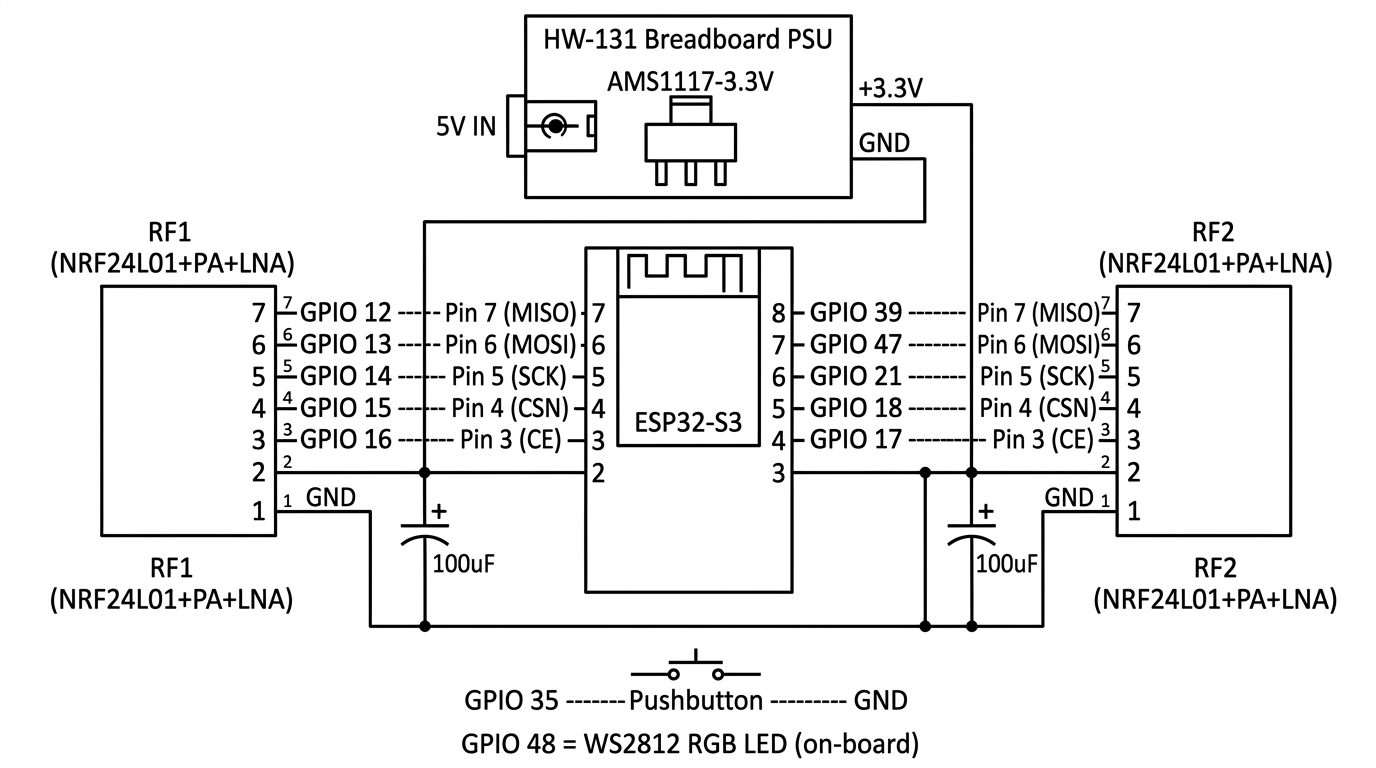
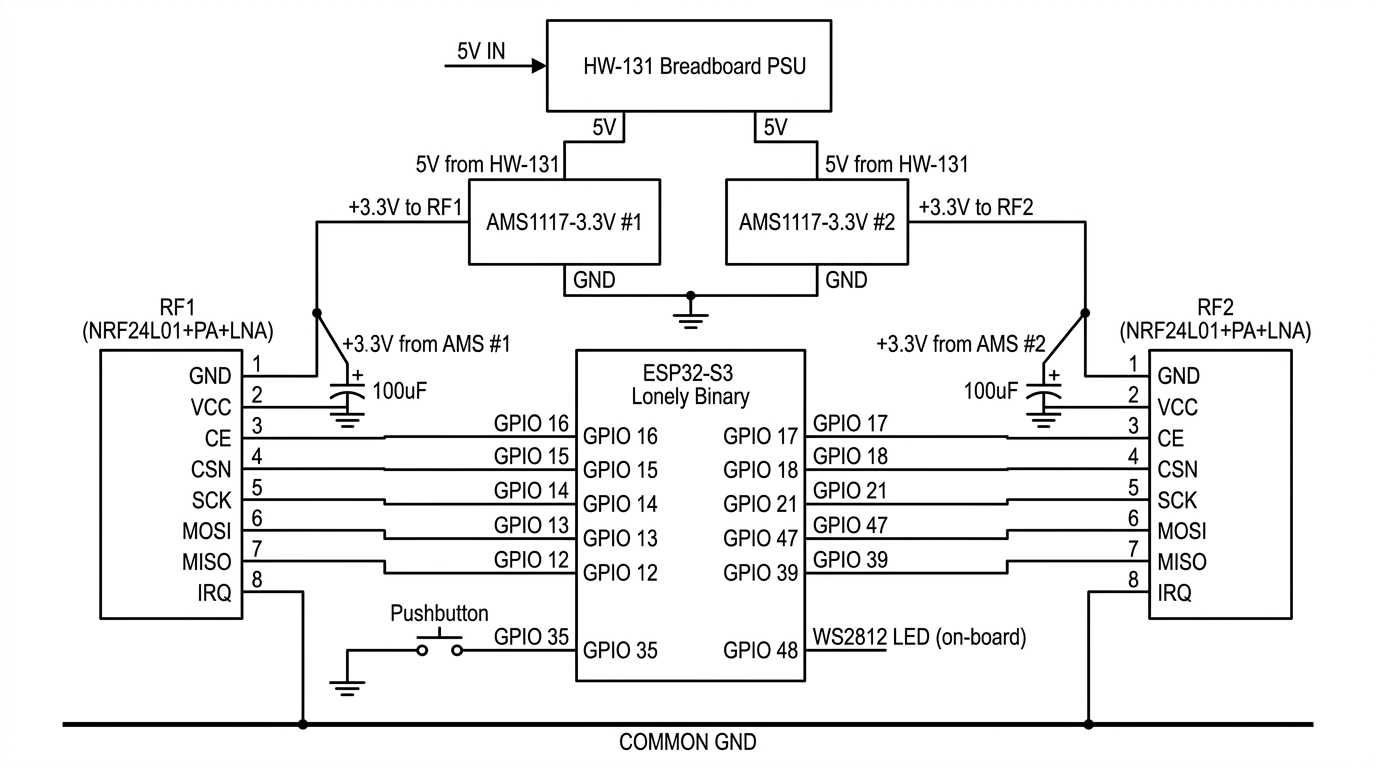
Fix wiring: 1x HW-131 + 2x AMS1117-3.3V, verified pin connections
- Correct power supply topology: single HW-131 provides 5V to two
  separate AMS1117-3.3V regulators, each powering one NRF24 module
- Every wire verified against source code pin definitions:
  RF1: GPIO12=MISO(P7), GPIO13=MOSI(P6), GPIO14=SCK(P5),
       GPIO15=CSN(P4), GPIO16=CE(P3)
  RF2: GPIO39=MISO(P7), GPIO47=MOSI(P6), GPIO21=SCK(P5),
       GPIO18=CSN(P4), GPIO17=CE(P3)
- Update docs to reflect 1x HW-131 + 2x AMS1117 setup

Made-with: Cursor

Changed region(s): [[0.0312, 0.0, 0.9688, 0.8125], [0.0312, 0.7812, 0.9688, 1.0]]

diff --git a/docs/README.md b/docs/README.md
@@ -22,7 +22,7 @@ This project implements a multi-path 2.4 GHz jammer using three simultaneous tra
 - **ESP-IDF 5.x** (build and flash toolchain).
 - **ESP32-S3** (e.g. Lonely Binary 2520V5 N16R8).
 - **2× NRF24L01+PA+LNA** modules.
-- **HW-131 breadboard power supply** (with AMS1117-3.3 regulator) or equivalent 3.3 V supply capable of ~300 mA for both NRF24 modules.
+- **1x HW-131 breadboard power supply** (5 V source) + **2x AMS1117-3.3V regulators** (one per NRF24 module).
 - **2x 100 µF electrolytic capacitors** (one per NRF24 module, at VCC/GND). See [Capacitor placement](capacitor-placement.md).
 
 ---
@@ -69,14 +69,17 @@ Used GPIOs and functions:
 
 ## Hardware – Full wiring
 
-### Power supply (HW-131 + AMS1117-3.3)
+### Power supply (1x HW-131 + 2x AMS1117-3.3)
 
-The NRF24L01+PA+LNA modules draw up to ~150 mA each at max TX power. The ESP32's on-board 3.3 V regulator cannot reliably supply both modules. Use an external **HW-131 breadboard power supply module** (which has an **AMS1117-3.3** voltage regulator on-board):
+Each NRF24L01+PA+LNA module draws up to ~150 mA at max TX power. The ESP32's on-board 3.3 V regulator cannot reliably supply both modules. Use one **HW-131 breadboard power supply** as the 5 V source, feeding **two separate AMS1117-3.3V regulators** — one dedicated to each RF module:
 
-- **5 V input** to the HW-131 via barrel jack or USB.
-- **HW-131 3.3 V output** to both RF module VCC pins.
-- **Common GND** between HW-131, ESP32, RF1, and RF2 (all grounds must be connected together).
+- **HW-131** provides 5 V (via barrel jack or USB).
+- **AMS1117-3.3V #1** takes 5 V from HW-131 → outputs 3.3 V to **RF1 Pin 2 (VCC) only**.
+- **AMS1117-3.3V #2** takes 5 V from HW-131 → outputs 3.3 V to **RF2 Pin 2 (VCC) only**.
+- **Common GND** between HW-131, both AMS1117s, ESP32, RF1, and RF2 (all grounds must be connected together).
 - **100 µF electrolytic capacitor** across VCC/GND at each RF module, as close to the module pins as possible.
+
+Using separate regulators per module eliminates cross-module voltage sag during simultaneous TX bursts.
 
 ### SPI and control wiring
 
@@ -244,7 +247,7 @@ Together, these three channels cover approximately 60 of the 79 BT Classic chann
 
 ## Power
 
-- **HW-131 + AMS1117-3.3** is the recommended power supply. It takes 5 V in (barrel jack or USB) and outputs a stable 3.3 V for both NRF24 modules. The AMS1117-3.3 can supply up to 800 mA — more than enough for two PA+LNA modules (~300 mA combined peak).
+- **1x HW-131 + 2x AMS1117-3.3** is the recommended power supply. The HW-131 provides 5 V, and each AMS1117-3.3V regulator independently powers one NRF24 module with clean 3.3 V. Having separate regulators ensures one module's TX current spikes don't affect the other.
 - **Do NOT power both NRF24 modules from the ESP32's on-board 3.3 V regulator.** The ESP32's regulator is typically rated for ~500 mA total (ESP32 + peripherals), and two PA+LNA modules at max TX can cause voltage sag that resets the ESP32 or causes SPI errors.
 - **100 µF electrolytic capacitor** per module at VCC/GND, as close as possible to the module pins. These smooth out the current spikes during TX bursts.
 - **Common ground** is critical: HW-131 GND, ESP32 GND, RF1 GND, and RF2 GND must all be connected together. A floating ground causes SPI failures and erratic behavior.

diff --git a/README.md b/README.md
@@ -13,7 +13,7 @@
 - **ESP-IDF 5.x** (sourced in your shell)
 - **ESP32-S3** board (e.g. Lonely Binary 2520V5 N16R8)
 - **2x NRF24L01+PA+LNA** modules
-- **HW-131 breadboard power supply** (AMS1117-3.3) or equivalent 3.3 V / 300 mA+ regulator
+- **1x HW-131 breadboard power supply** (5V) + **2x AMS1117-3.3V regulators** (one per NRF24 module)
 - **2x 100 uF electrolytic capacitors** (one per NRF24 module)
 
 ---
